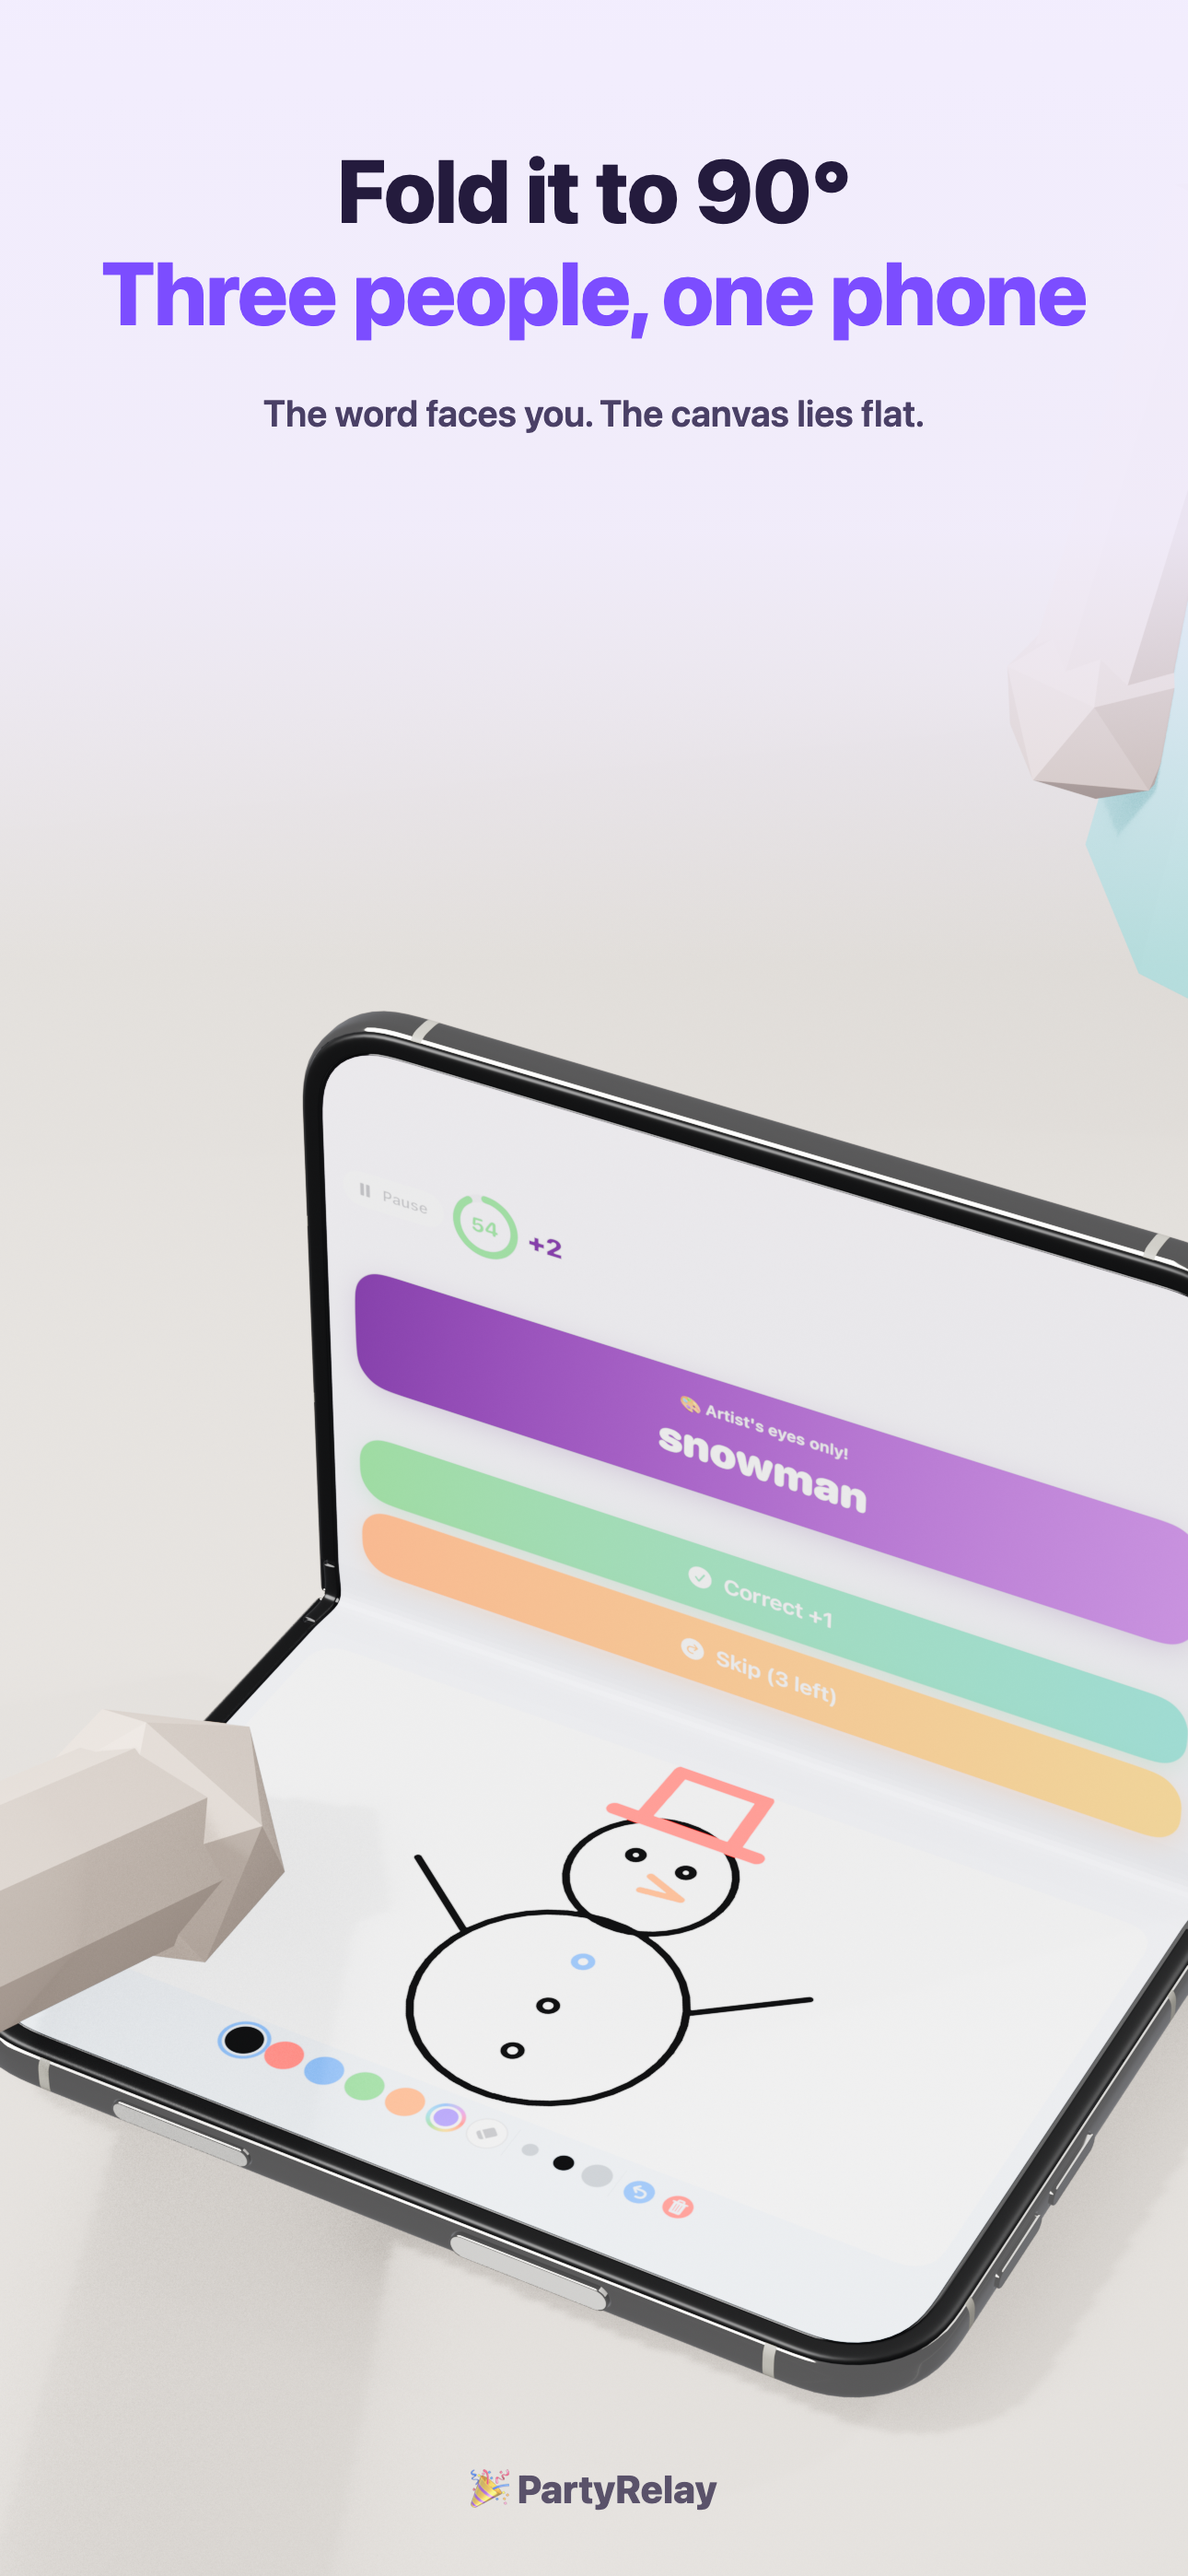
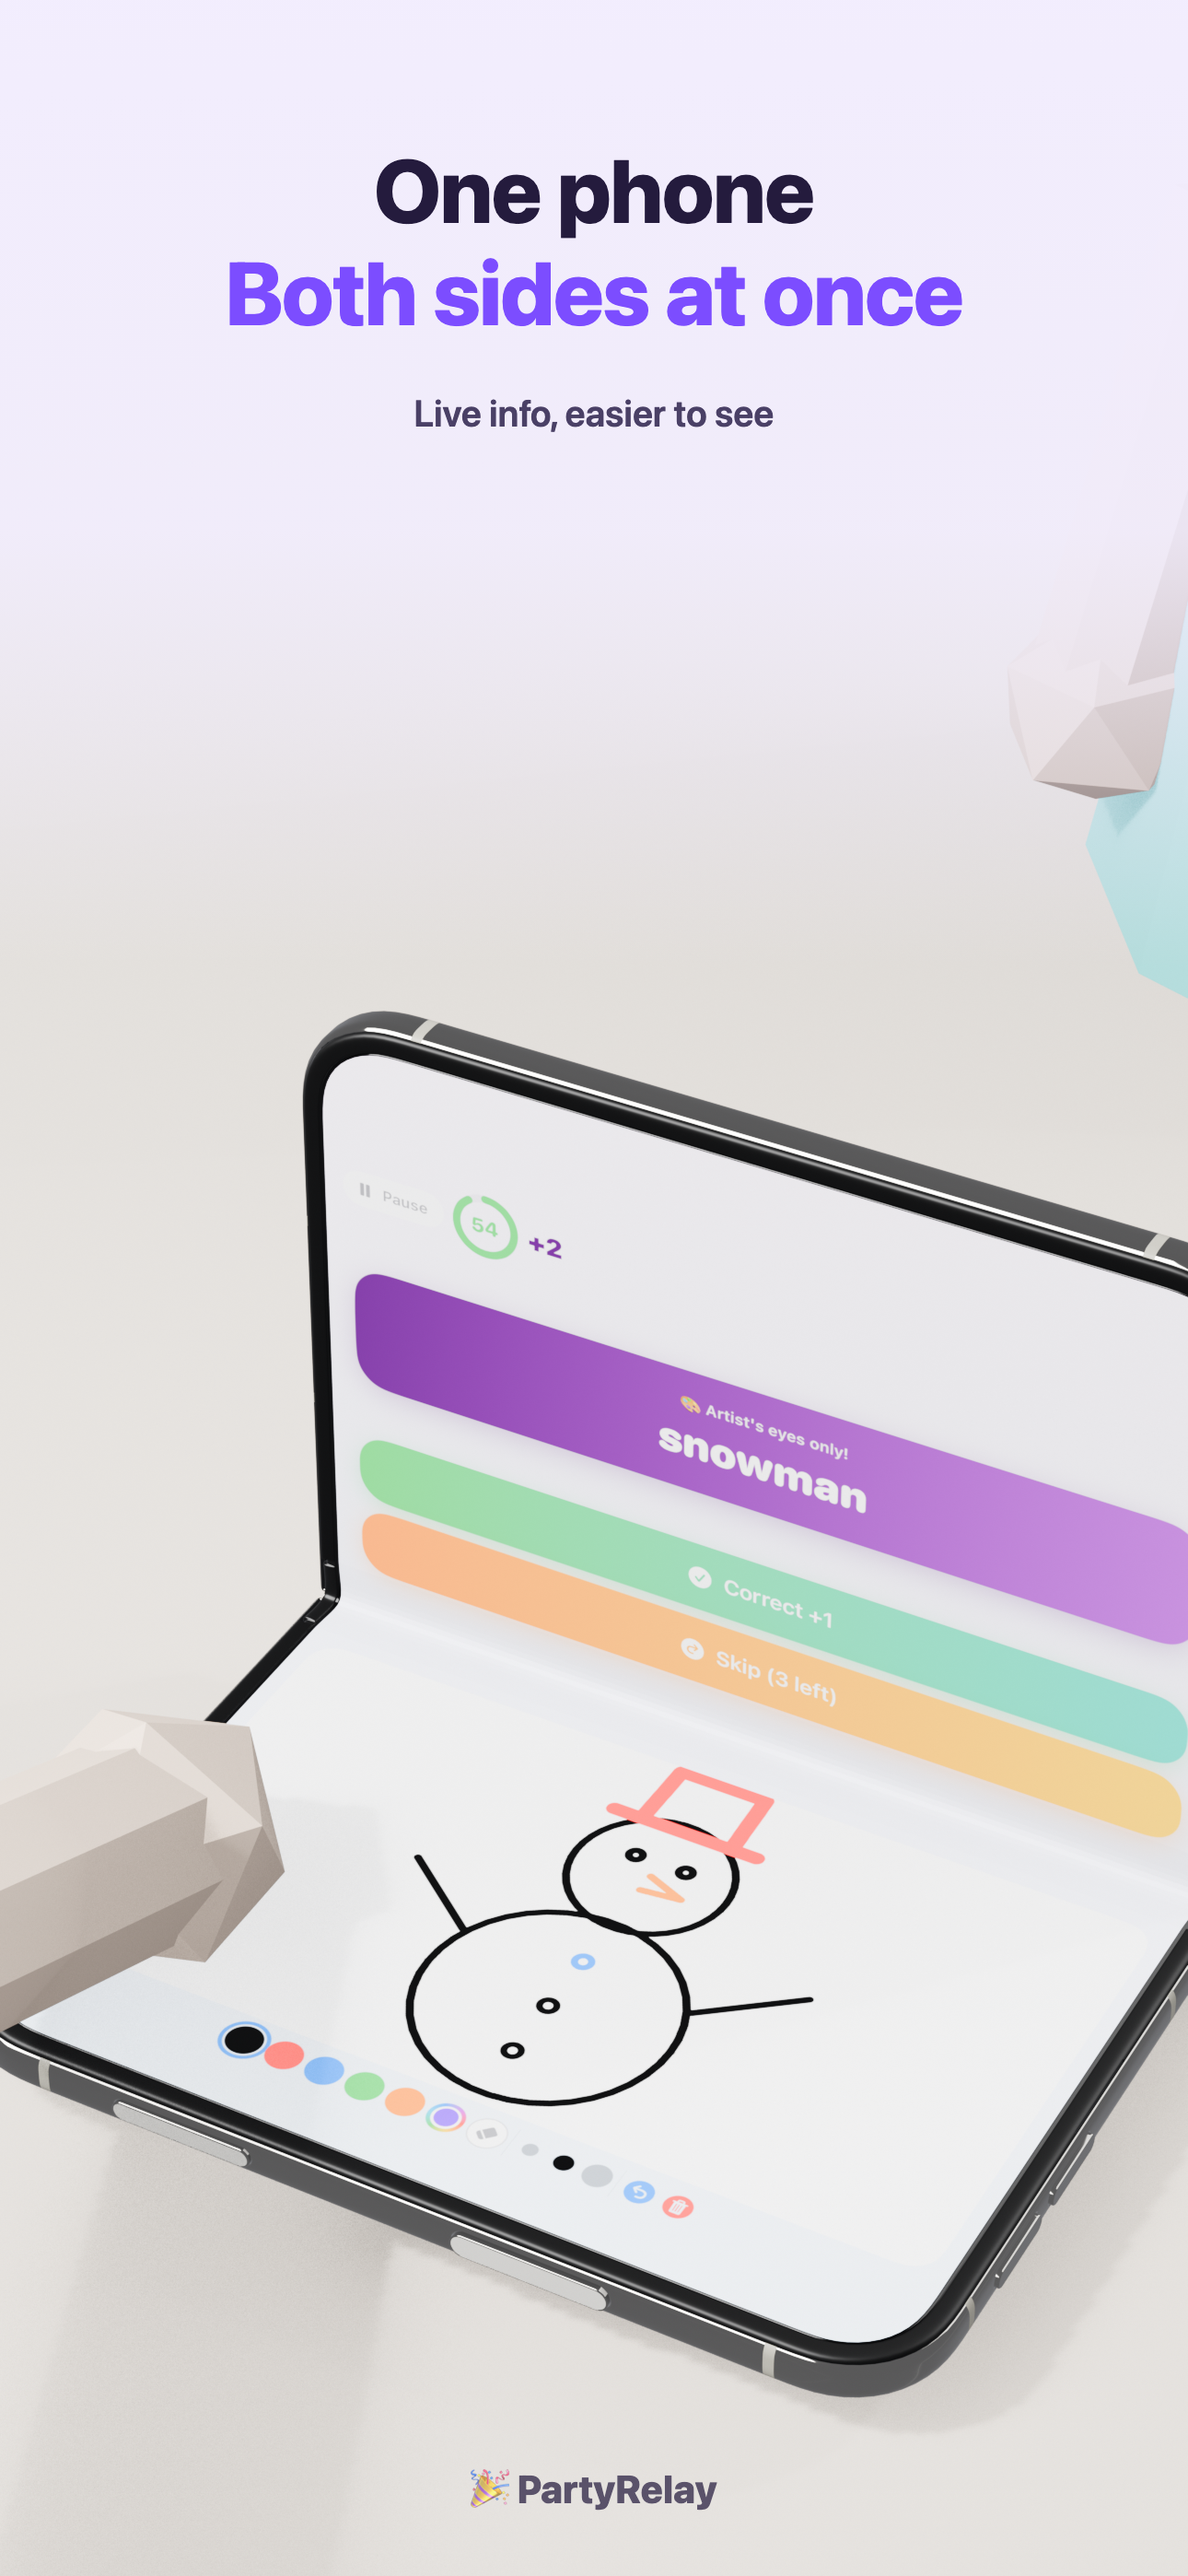
商店截图文案：改成「一台手机，两边展示」
原来写的是「一台手机，三个人各看各的」——而渲染出来的场景里只有两个人，
文案和画面对不上。换成就事论事的说法：一台手机、两边展示，
小字落在「实时信息，更容易看到」。

Changed region(s): [[0.093, 0.0622, 0.9302, 0.1867]]

diff --git a/AppStoreConnect/scripts/fold_promo.py b/AppStoreConnect/scripts/fold_promo.py
@@ -21,15 +21,15 @@ FONT = '-apple-system, BlinkMacSystemFont, "PingFang SC", "Helvetica Neue", sans
 # 每张：底图、大标题（两行）、副标题
 SLIDES = {
     "zh-Hans": [
-        ("store-fold.png",  "折成 90°",        "一台手机，三个人各看各的",
-         "上半屏朝你显示词，下半屏平躺当画板"),
+        ("store-fold.png",  "一台手机",        "两边展示",
+         "实时信息，更容易看到"),
         ("store-cover.png", "对面那块屏",       "实时同步整张画",
          "计时、得分、笔画，猜的人全看得见"),
     ],
     # 英文那两张底图是用英文界面的贴图单独渲的（scene.py --tex tex-en）
     "en": [
-        ("en-store-fold.png",  "Fold it to 90°",   "Three people, one phone",
-         "The word faces you. The canvas lies flat."),
+        ("en-store-fold.png",  "One phone",        "Both sides at once",
+         "Live info, easier to see"),
         ("en-store-cover.png", "The outer screen", "Mirrors every stroke",
          "Timer, score and drawing — live, for everyone else."),
     ],
